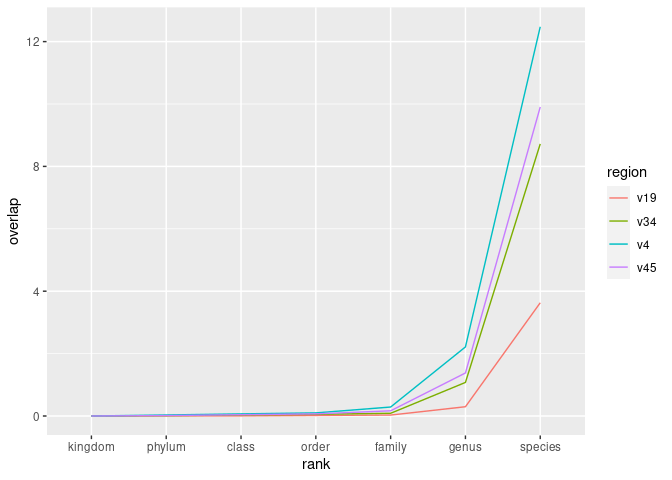
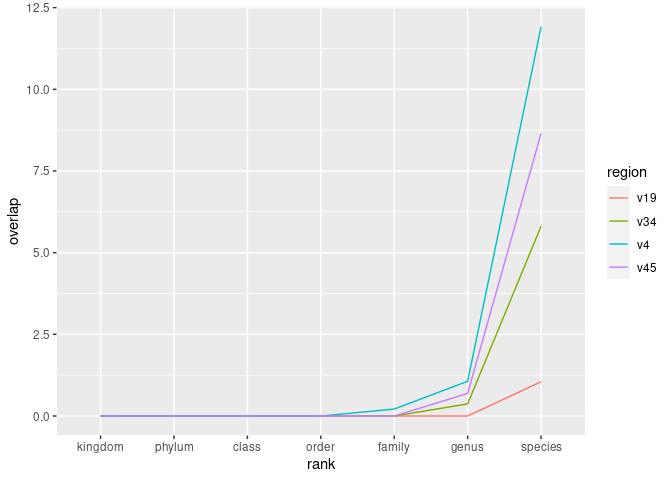
Add code to subsampled the species with N number of genomes, adresses #33

diff --git a/exploratory/2022-12-22-asv-taxa-overlap.md b/exploratory/2022-12-22-asv-taxa-overlap.md
@@ -40,8 +40,43 @@ we can control for relatedness in a future episode, but for today, I
 want to answer this question for any two taxa from the same rank.
 
 ``` r
+# set RNG seed
+set.seed(19769620)
+threshold <- 3
+# metadata_asv - species - genome_id
+subsample_species <- metadata_asv %>%
+    select(genome_id, species) %>%
+# return the distinct/unique rows
+    distinct() %>%
+# group_by species
+    group_by(species) %>%
+# slice_sample on each species for N genomes
+    slice_sample(n=threshold, replace = T) %>%
+    distinct() %>%
+    ungroup()
+
+good_species <- subsample_species %>%
+# count number of genomes in each species
+    count(species) %>%
+# return species that have N genomes / filter out species with fewer
+    filter(n == threshold) %>%
+    select(species)
+
+# going back to original list of species/genomes and return the genome_ids
+# from species with N genomes
+
+subsampled_genomes <- inner_join(subsample_species, good_species,
+                                 by="species") %>%
+    select(genome_id)
+
+
+
+
+
+
 # metadata_asv - input data
-overlap_data <- metadata_asv %>%
+overlap_data <- inner_join(metadata_asv, subsampled_genomes,
+                           by="genome_id") %>%
 # - focus on taxonomic ranks - kingdom to species, asv, and region
     select(-genome_id, -count, -strain) %>%
 # - make data frame tidy
@@ -86,10 +121,10 @@ overlap_data %>%
 
 | region | rank    |   overlap |
 |:-------|:--------|----------:|
-| v19    | species |  3.629671 |
-| v34    | species |  8.721368 |
-| v4     | species | 12.475182 |
-| v45    | species |  9.904632 |
+| v19    | species |  1.050000 |
+| v34    | species |  5.809641 |
+| v4     | species | 11.914894 |
+| v45    | species |  8.650519 |
 
 ### Conclusion
 
